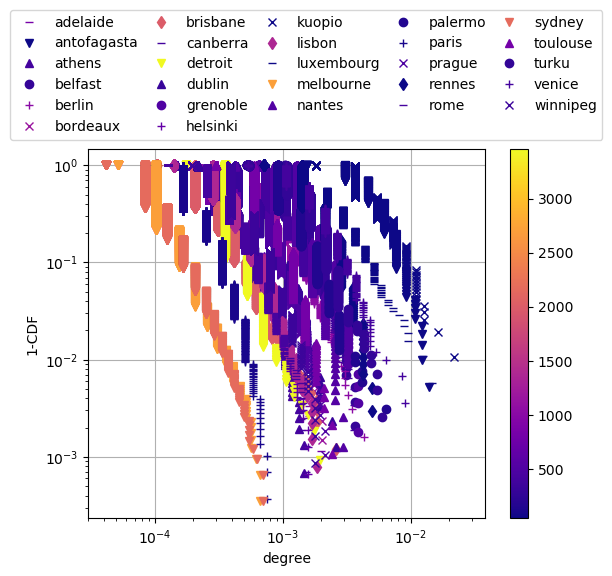
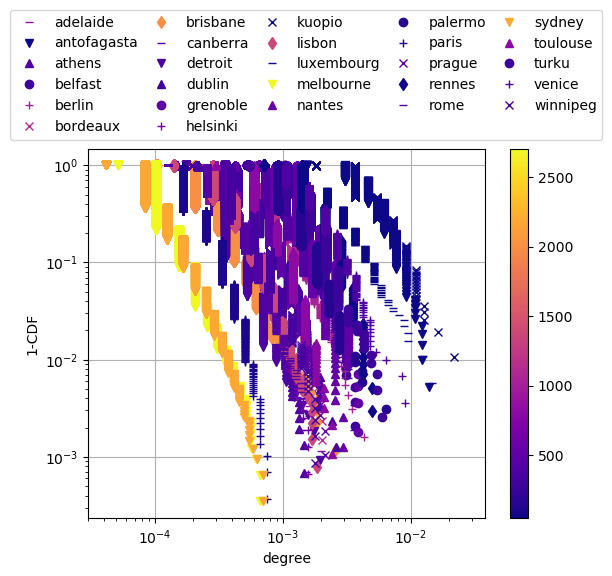
updated thesis plots for detroit still problem polyfit

diff --git a/results/all/tables/measures_html.html b/results/all/tables/measures_html.html
@@ -155,8 +155,8 @@
       <th>detroit</th>
       <td>5,683</td>
       <td>5,946</td>
-      <td>3,463.0</td>
-      <td>3,571,000</td>
+      <td>370.0</td>
+      <td>672,662</td>
       <td>206</td>
       <td>0.01</td>
       <td>1.64</td>

diff --git a/plot_centrality_measures.py b/plot_centrality_measures.py
@@ -37,26 +37,26 @@ if __name__ == '__main__':
         for k, v in centrality_measures.items():
             centrality_dict[k].append(v)
 
-        # ''' Scatter plots: betweenness vs closeness and betweenness vs eigenvector'''
-        # df_centralities = pd.DataFrame.from_dict(centrality_measures)
-        # fig, ax = nf.plot_two_columns_dataframe(df=df_centralities, col_x='betweenness', col_y1='closeness')
-        # ax.set_title(city)
-        # fig.show()
-        # dir_scatter = './results/' + city + '/centrality_measures/scatter/'
-        # if not os.path.exists(dir_scatter):
-        #     os.makedirs(dir_scatter)
-        # fig_name = dir_scatter + 'betweenness_vs_closeness.png'
-        # fig.savefig(fig_name)
-        #
-        # fig, ax = nf.plot_two_columns_dataframe(df=df_centralities, col_x='betweenness', col_y1='eigenvector')
-        # ax.set_title(city)
-        # fig.show()
-        # fig_name = dir_scatter + 'betweenness_vs_eigenvector.png'
-        # fig.savefig(fig_name)
+        ''' Scatter plots: betweenness vs closeness and betweenness vs eigenvector'''
+        df_centralities = pd.DataFrame.from_dict(centrality_measures)
+        fig, ax = nf.plot_two_columns_dataframe(df=df_centralities, col_x='betweenness', col_y1='closeness')
+        ax.set_title(city)
+        fig.show()
+        dir_scatter = './results/' + city + '/centrality_measures/scatter/'
+        if not os.path.exists(dir_scatter):
+            os.makedirs(dir_scatter)
+        fig_name = dir_scatter + 'betweenness_vs_closeness.png'
+        fig.savefig(fig_name)
+
+        fig, ax = nf.plot_two_columns_dataframe(df=df_centralities, col_x='betweenness', col_y1='eigenvector')
+        ax.set_title(city)
+        fig.show()
+        fig_name = dir_scatter + 'betweenness_vs_eigenvector.png'
+        fig.savefig(fig_name)
 
         ''' Plot ccdf of all measures of centrality considered for current city '''
         fig, _ = nf.plot_ccdf(datavecs=list(centrality_measures.values()), labels=list(centrality_measures.keys()),
-                           xlabel='measure', ylabel='P(measure)')
+                              xlabel='measure', ylabel='P(measure)')
         # fig.show()
         dir_name = './results/'+city+'/centrality_measures/'
         if not os.path.exists(dir_name):
@@ -102,29 +102,29 @@ if __name__ == '__main__':
             fig2.savefig(fig_name)
             plt.close('all')
 
-    # ''' Create table for betweenness analysis '''
-    #
-    # pd.options.display.float_format = lambda x: '{:,.3f}'.format(x)
-    # pd.set_option('colheader_justify', 'center')
-    # html_string = nf.get_html_string()
-    #
-    # df_bc_k = pd.DataFrame.from_dict(degree_betweenness).describe()
-    # df = pd.DataFrame.from_dict(nf.load_json(centralities_path)).T
-    # df.fillna(0.0)
-    #
-    # df_bc_cols = ['City', 'max(g(i))', '<g(i)>', 'n', 'max(g(k))', '<g(k)>', 'y']  # \u03B7
-    # df_bc = pd.DataFrame(columns=df_bc_cols)
-    # df_bc['City'] = cities
-    # df_bc['max(g(i))'] = [np.max(x) for x in df.betweenness]
-    # df_bc['<g(i)>'] = [np.mean(x) for x in df.betweenness]
-    # df_bc['lambda'] = lambdas
-    # df_bc['max(g(k))'] = np.array(df_bc_k.loc['max'])
-    # df_bc['<g(k)>'] = np.array(df_bc_k.loc['mean'])
-    # df_bc['eta'] = etas
-    #
-    # print(df_bc)
-    #
-    # df_bc.to_csv('./results/all/tables/betweenness.csv')
+    ''' Create table for betweenness analysis '''
+
+    pd.options.display.float_format = lambda x: '{:,.3f}'.format(x)
+    pd.set_option('colheader_justify', 'center')
+    html_string = nf.get_html_string()
+
+    df_bc_k = pd.DataFrame.from_dict(degree_betweenness).describe()
+    df = pd.DataFrame.from_dict(nf.load_json(centralities_path)).T
+    df.fillna(0.0)
+
+    df_bc_cols = ['City', 'max(g(i))', '<g(i)>', 'n', 'max(g(k))', '<g(k)>', 'y']  # \u03B7
+    df_bc = pd.DataFrame(columns=df_bc_cols)
+    df_bc['City'] = cities
+    df_bc['max(g(i))'] = [np.max(x) for x in df.betweenness]
+    df_bc['<g(i)>'] = [np.mean(x) for x in df.betweenness]
+    df_bc['lambda'] = lambdas
+    df_bc['max(g(k))'] = np.array(df_bc_k.loc['max'])
+    df_bc['<g(k)>'] = np.array(df_bc_k.loc['mean'])
+    df_bc['eta'] = etas
+
+    print(df_bc)
+
+    df_bc.to_csv('./results/all/tables/betweenness.csv')
 
     # with open('./results/all/tables/betweenness_html.html', 'w') as f:
     #     f.write(html_string.format(table=df_bc.to_html(classes='mystyle')))
@@ -135,15 +135,15 @@ if __name__ == '__main__':
 
         fig = nf.plot_multiple_ccdf_with_colorbar(datavecs=values, labels=cities, xlabel=measure, ylabel='1-CDF',
                                                   c=areas)
+        # fig.show()
         fig_name = './results/all/plots/centrality_measures/ccdf_'+measure+'_centrality_area.png'
         fig.savefig(fig_name, bbox_inches='tight')
-        # fig.show()
 
         fig = nf.plot_multiple_ccdf_with_colorbar(datavecs=values, labels=cities, xlabel=measure, ylabel='1-CDF',
                                                   c=populations)
+        # fig.show()
         fig_name = './results/all/plots/centrality_measures/ccdf_' + measure + '_centrality_population.png'
         fig.savefig(fig_name, bbox_inches='tight')
-        # fig.show()
 
     ''' Plot overall correlation degree-avg betweenness '''
     x_values, y_values = [], []

diff --git a/try_polyfit.py b/try_polyfit.py
@@ -1,0 +1,87 @@
+import network_functions as nf
+import pandas as pd
+import numpy as np
+import matplotlib.pyplot as plt
+
+if __name__ == '__main__':
+
+    cities = nf.get_list_cities_names()
+    degrees = nf.load_json('./results/all/json/degrees.json')
+    area_population_dict = nf.load_json('./results/all/json/area_population.json')
+    d = nf.order_dict_based_on_list_keys(area_population_dict, sorted(area_population_dict.keys()))
+    df_area_population = pd.DataFrame.from_dict(d).T
+    areas = df_area_population['area']
+    prefix_png = './results/all/plots/'
+
+    figs, fig_names = [], []
+
+    ''' Plot degree distributions for all cities '''
+    values = degrees.values()
+
+    d = {}
+    for city, list_k in degrees.items():
+        row = {
+            'min(k)': np.min(list_k),
+            'max(k)': np.max(list_k),
+            '25%': np.percentile(list_k, 25),
+            '50%': np.percentile(list_k, 50),
+            '75%': np.percentile(list_k, 75),
+            '<k>': float(f'{np.mean(list_k):.2f}')
+        }
+        d[city] = row
+    pd.set_option('precision', 2)
+    df_degrees = pd.DataFrame.from_dict(d)
+
+    ''' Plot all the degree distributions in one plot'''
+    fig = nf.plot_multiple_distributions_with_colorbar_log_log_and_fitted_line(datavecs=degrees.values(),
+                                                                               labels=cities, xlabel='k',
+                                                                               ylabel='P(k)', c=areas, max_x=28)
+    fig.show()
+    fig_name = 'results/all/plots/basic_measures/degree_distribution.png'
+    # fig.savefig(fig_name, bbox_inches='tight')
+    # figs.append(fig)
+    # fig_names.append(fig_name)
+    # plt.clf()
+
+    clusters = nf.get_cluster_dict_for_area()
+    for cluster, list_cities in clusters.items():
+        datavecs, areas, max_k = [], [], 0
+        for city in cities:
+            if city in list_cities:
+                max_city = int(df_degrees[city]['max(k)'])
+                if max_city > max_k:
+                    max_k = max_city
+                datavecs.append(degrees[city])
+                areas.append(area_population_dict[city]['area'])
+
+        fig = nf.plot_multiple_distributions_with_colorbar_log_log_and_fitted_line(datavecs=datavecs,
+                                                                                   labels=list_cities, xlabel='k',
+                                                                                   ylabel='P(k)', c=areas, max_x=max_k)
+        fig.show()
+        fig_name = prefix_png+'basic_measures/clusters/'+cluster+'_P(k).png'
+        # fig.savefig(fig_name, bbox_inches='tight')
+        figs.append(fig)
+        fig_names.append(fig_name)
+        plt.clf()
+
+    ''' Plot the degree distribution for each city and save the m of the fit line '''
+    gammas = []
+    for city, list_degrees in degrees.items():
+        plt.close('all')
+        fig, m = nf.plot_distribution_log_log(datavec=list_degrees, label=city, xlabel='k', ylabel='P(k)',
+                                              max_x=int(df_degrees[city][1]))
+        fig_name = 'results/'+city+'/degree_distribution.png'
+        # fig.savefig(fig_name, bbox_inches='tight')
+        figs.append(fig)
+        fig_names.append(fig_name)
+        plt.clf()
+        gammas.append(m)
+
+    df_degrees = df_degrees.T
+    df_degrees['\u03B3'] = gammas
+    # nf.dump_json('./results/all/json/gammas.txt', gammas)
+    # print(df_degrees)
+    # print(df_degrees.describe())
+
+    for fig, fig_name in zip(figs, fig_names):
+        fig.savefig(fig_name,  bbox_inches='tight')

diff --git a/plot_basic_measures.py b/plot_basic_measures.py
@@ -98,7 +98,6 @@ if __name__ == '__main__':
     df_degrees = pd.DataFrame.from_dict(d)
 
     ''' Plot all the degree distributions in one plot'''
-
     fig = nf.plot_multiple_distributions_with_colorbar_log_log_and_fitted_line(datavecs=degrees.values(),
                                                                                labels=cities, xlabel='k',
                                                                                ylabel='P(k)', c=areas, max_x=28)
